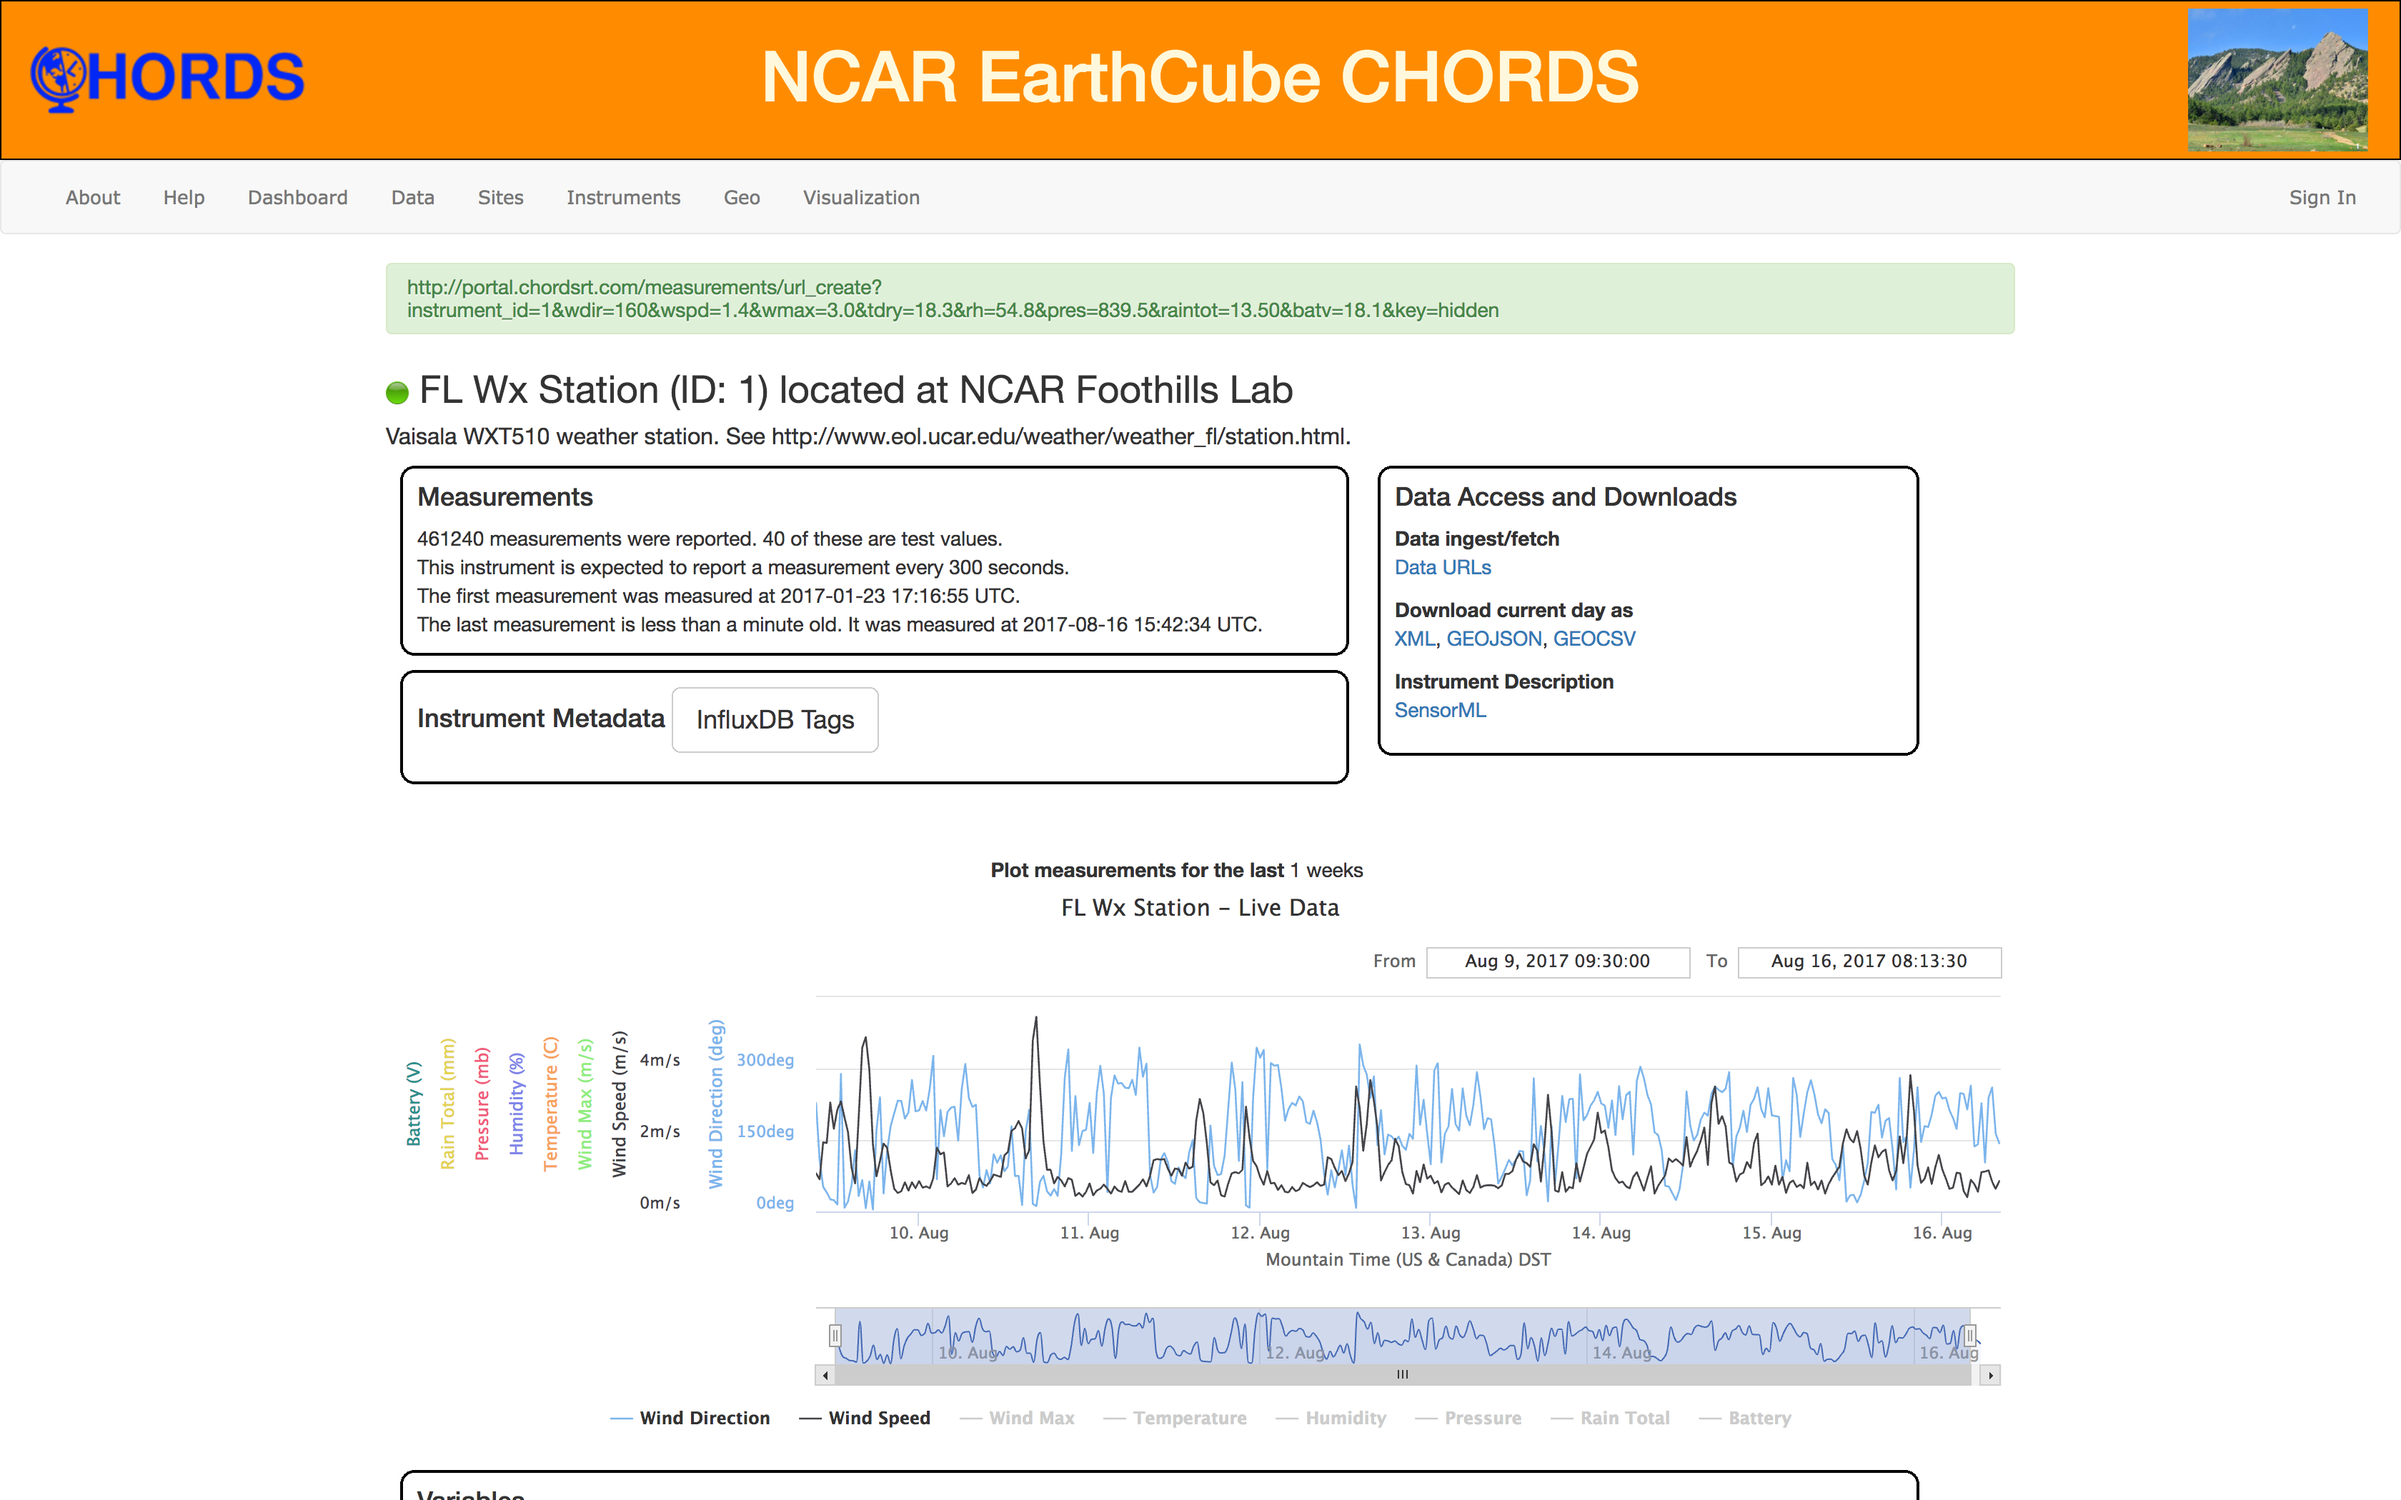
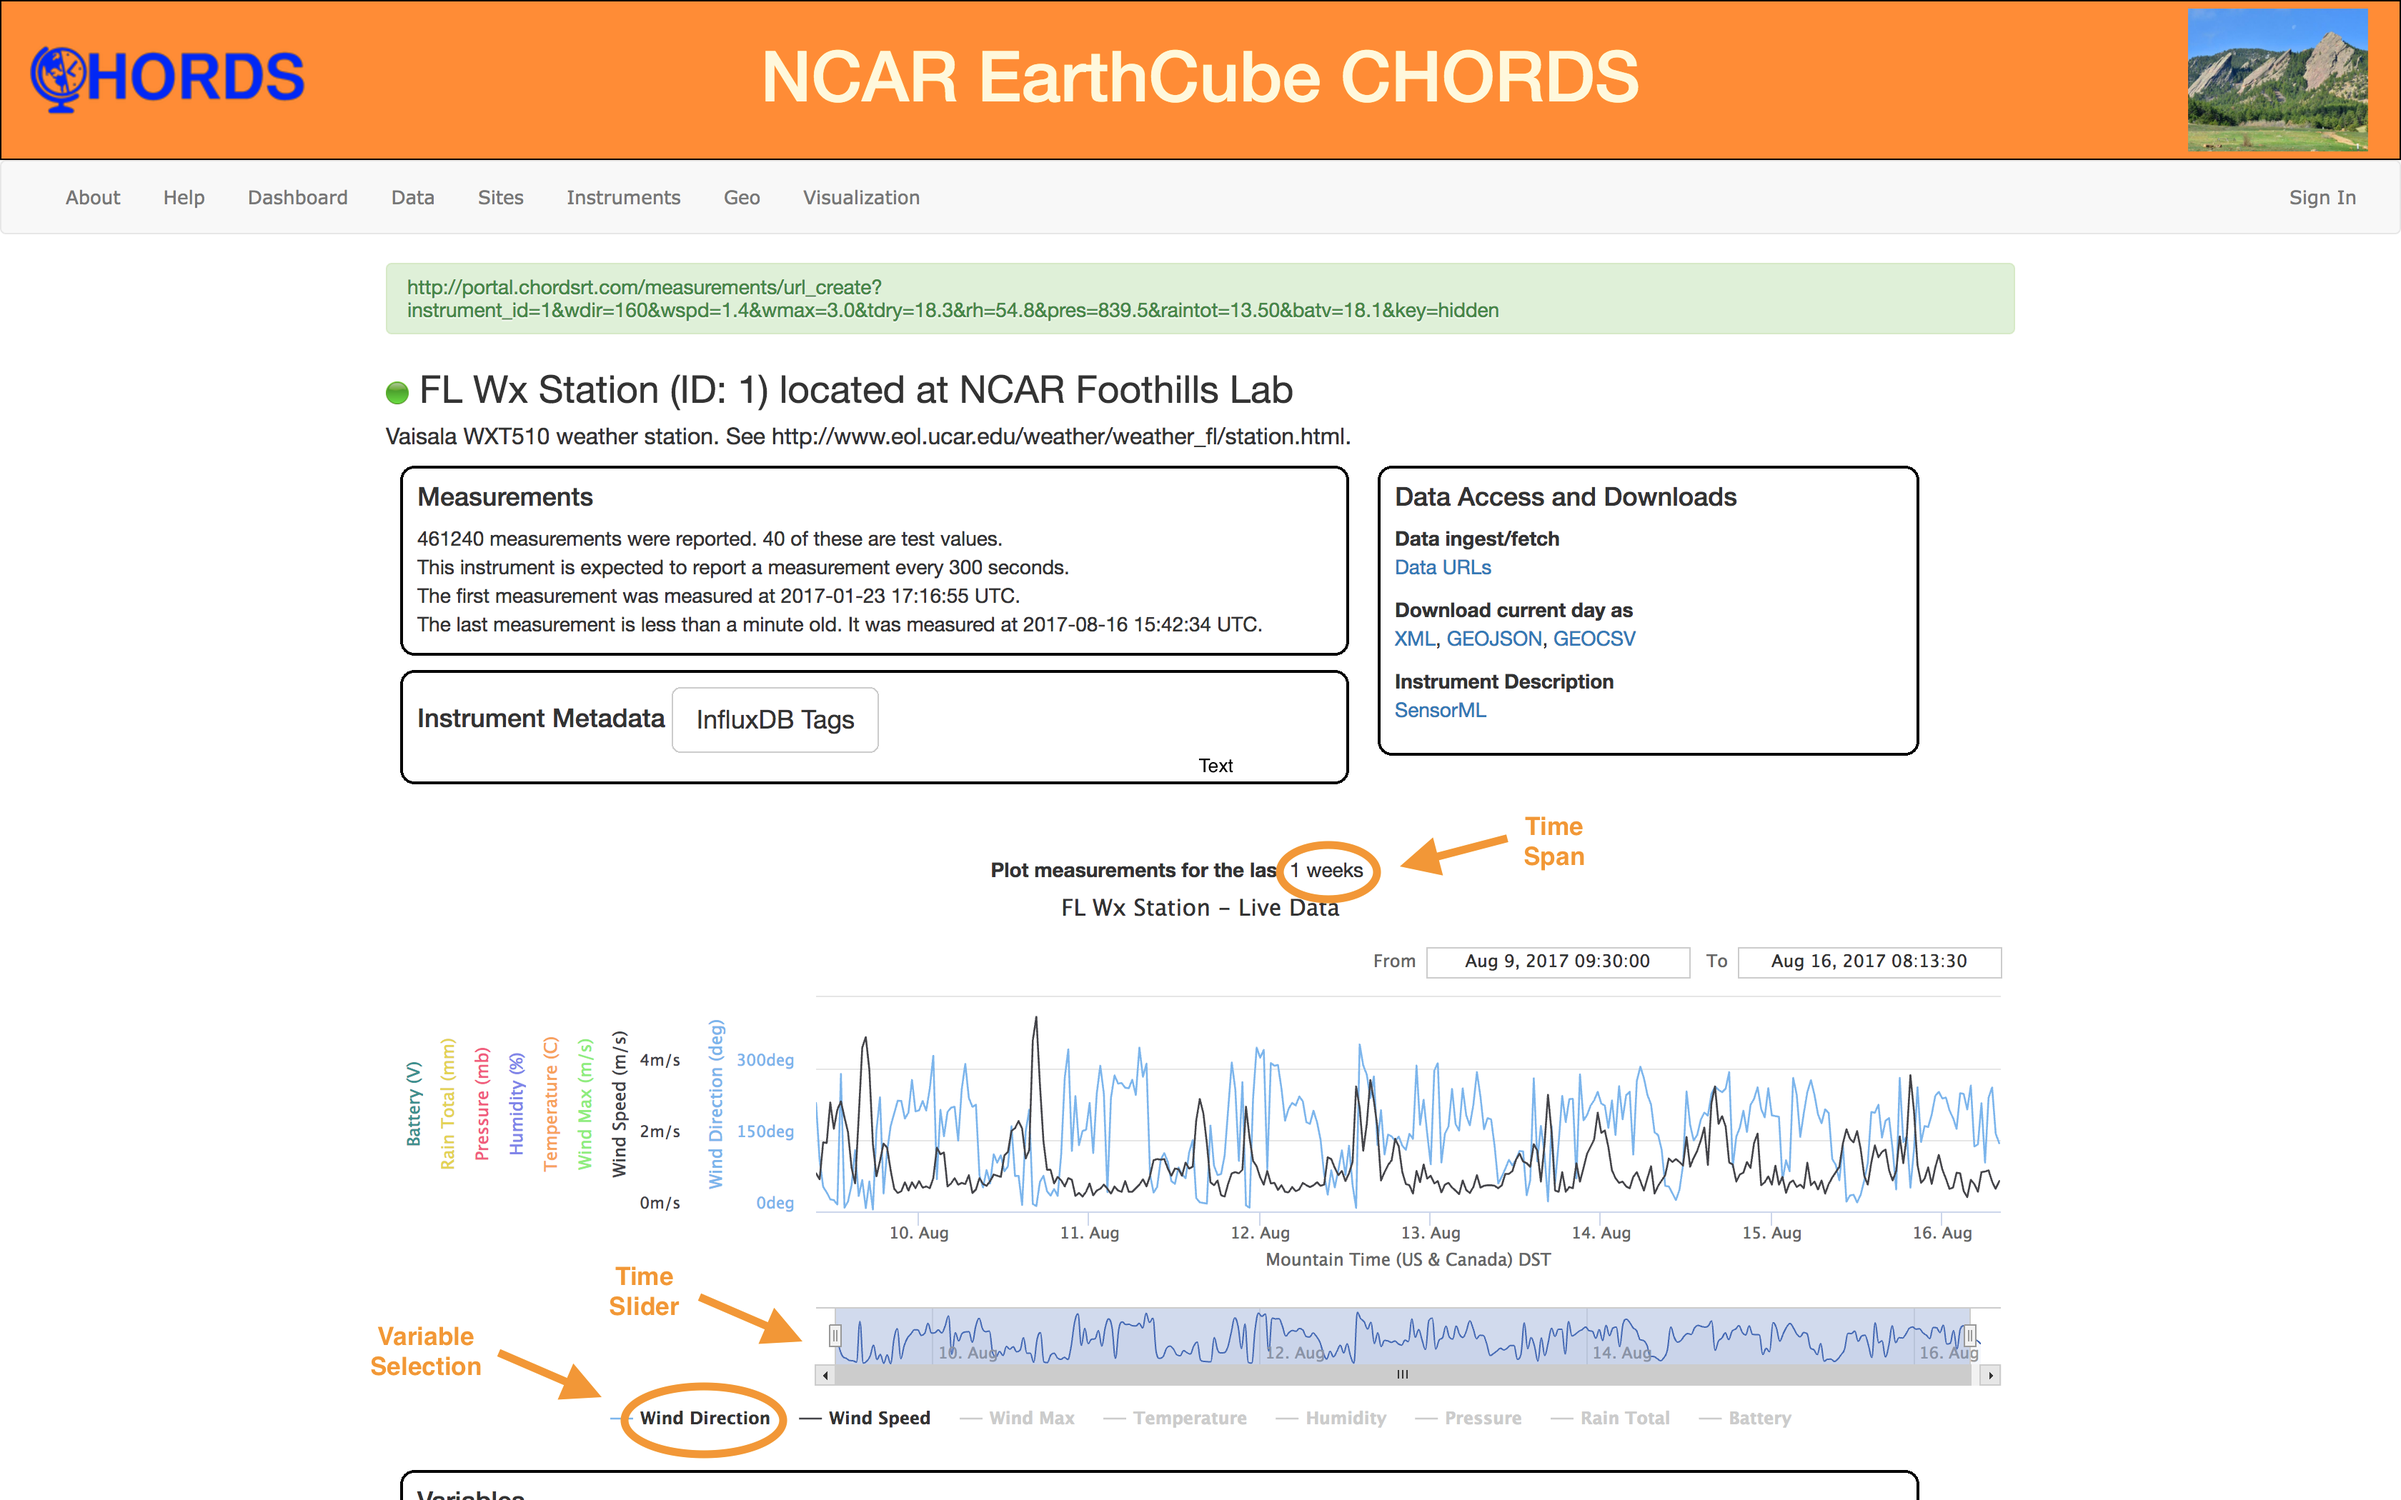
Add Geo to concepts.

diff --git a/concepts.md b/concepts.md
@@ -8,6 +8,7 @@ title: Concepts
     <li class="active"><a data-toggle="tab" href="#dashboard">Dashboard</a></li>
     <li><a data-toggle="tab" href="#data">Data</a></li>
     <li><a data-toggle="tab" href="#monitor">Monitoring</a></li>
+    <li><a data-toggle="tab" href="#geo">Geo</a></li>
     <li><a data-toggle="tab" href="#sim">Simulation</a></li>
     <li><a data-toggle="tab" href="#terms">Terminology</a></li>
   </ul>
@@ -87,7 +88,7 @@ title: Concepts
       Dashboard link.
       </p>
       <ul>
-        <li>A list of instrument links have status indicators which are green/red  indicating if a measurement 
+        <li>The instrument links have status indicators which are green/red indicating if a measurement 
         has been received within the nominal reporting interval for the instrument.</li>
         <li>The most recent measurement URL is shown in the green box.</li>
         <li>Three bar graphs show the number of measurements received for each instrument,
@@ -98,14 +99,16 @@ title: Concepts
     
     <div id="monitor" class="tab-pane">
       <p>
-      Clicking on an instrument link takes you to a page where you can monitor data from 
+      Clicking on an instrument link (from the dashboard or instrument page 
+      takes you to a page where you can monitor data from 
       that instrument. You can also modify the instrument configuration.
       </p>
       <ul>
-        <li>Select the variableto be plotted by pressing a link above the graph.</li>
+        <li>Select the variables to be plotted by selecting them below the graph.</li>
+        <li>The time span and range can be adjusted with a drop down and slider.</li>
         <li>The graph has live updates. When a new measurement is recieved, it is plotted.</li>
         <li>The most recent URL received from the instrument is displayed in the green alert box.</li>
-        <li>Configuration parameters appear in green boxes.You can edit them directly, to change the 
+        <li>Configuration parameters appear in green boxes. You can edit them directly, to change the 
         setup for this instrument.</li>
       </ul>
       <img class="img-responsive" src="images/monitor.png" alt="Dashboard">
@@ -113,20 +116,31 @@ title: Concepts
     
     <div id="data" class="tab-pane">
       <p>
-      The sidebar Data link takes you to a page where instrument data can be directly downloaded with
+      The top bar Data link takes you to a page where instrument data can be directly downloaded with
       a few button clicks. Old measurements can be trimmed from the database. Simple URLs can also be used by programs to 
       <a href="{{site.baseurl}}/dataout.html">fetch data</a>.
       </p>
       <ul>
-      <li>The Data page of the Portal lets you download instrument data for selected days in
+      <li>You can download instrument data for selected days in
       various file formats.</li>
-      <li>Use the Trim function to remove older measurements from a bloated database.</li>
       <li>Links are also provided to "Data URLs" pages, which describe how to 
       construct a data request for each instrument.</li>
-      <li>Remember that data can also be fetched directly by programs. You don't have
+      <li>Remember that data can also be fetched directly by <a href="{{site.baseurl}}/dataout.html">programs</a>. You don't have
       to download files.</li>
       </ul>
       <img class="img-responsive" src="images/data.png" alt="Data">
+    </div>
+    
+    <div id="geo" class="tab-pane">
+      <p>
+      The top bar Geo link takes you to a geographical display of site locations.
+      </p>
+      <ul>
+      <li>A Google API credential is required in order to show google maps on a web site. Anyone with a Google account can 
+      <a href="https://console.developers.google.com/project/_/apiui/credential" target="_blank">create an API credential</a>. 
+      The value is entered into the CHORDS configuration.</li>
+      </ul>
+      <img class="img-responsive" src="images/geo.png" alt="Data">
     </div>
     
     <div id="sim" class="tab-pane">
@@ -135,7 +149,7 @@ title: Concepts
       test data can be easily deleted when testing is completed.
       </p>
       <ul>
-      <li>Select Simulator from the side bar to open the simulation page. It's best to right-click 
+      <li>Select Simulator from the top bar to open the simulation page. It's best to right-click 
       the link, and select "Open Link In New Tab".</li>
       <li>You can  individually toggle each intrument on/off.</li>
       <li>URLs with simulated measurements will be sent to the Portal, at the nominal instrument
